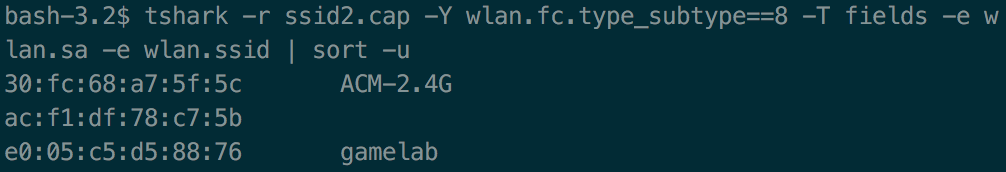
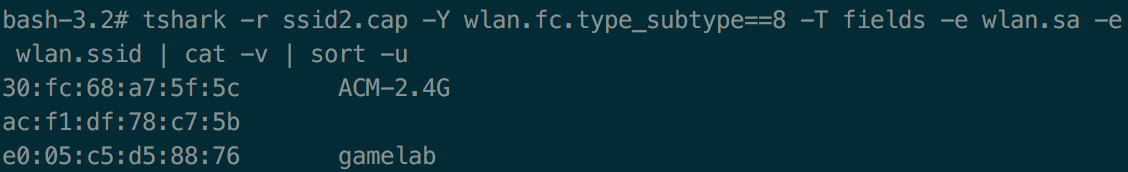
主要加入了在获取SSID时将不可打印字符与「空」进行区分的操作

diff --git a/mis/mis-chap0x02.md b/mis/mis-chap0x02.md
@@ -14,8 +14,8 @@
 - 梳理完之后，我们再来回答问题
 
 ### 查看统计当前信号覆盖范围内一共有多少独立的SSID？其中是否包括隐藏SSID？
-- 独立SSID，要么能通过AP广播Beacon帧被我们识别，要么通过回复Probe Response被我们识别。而其中①不广播Beacon只回复Probe Response或②广播Beacon但SSID为空的，可以被认为是隐藏SSID
-- 首先获取所有广播了Beacon的AP的SSID:![](images/1.png)可以看到，有一个AP在广播的Beacon帧中放入的是空SSID
+- 独立SSID，要么能通过AP广播Beacon帧被我们识别，要么通过回复Probe Response被我们识别。而其中①不广播Beacon只回复Probe Response或②广播Beacon但SSID为空（或者由若干`\x00`组成）的，可以被认为是隐藏SSID
+- 首先获取所有广播了Beacon的AP的SSID（命令中`cat -v`是为了用可打印字符来表示不可打印字符，进而将不可打印字符与空进行区分）:![](images/1.png)可以看到，有一个AP在广播的Beacon帧中放入的是空SSID
 - 接下来再来获取所有回复了Probe Response的AP的SSID:![](images/2.png)可以看到，第一张截图中的隐藏SSID其实是`<length:  13>`
 - 回答问题：当前信号覆盖范围内一共有3个独立SSID，其中包括一个隐藏SSID
 
